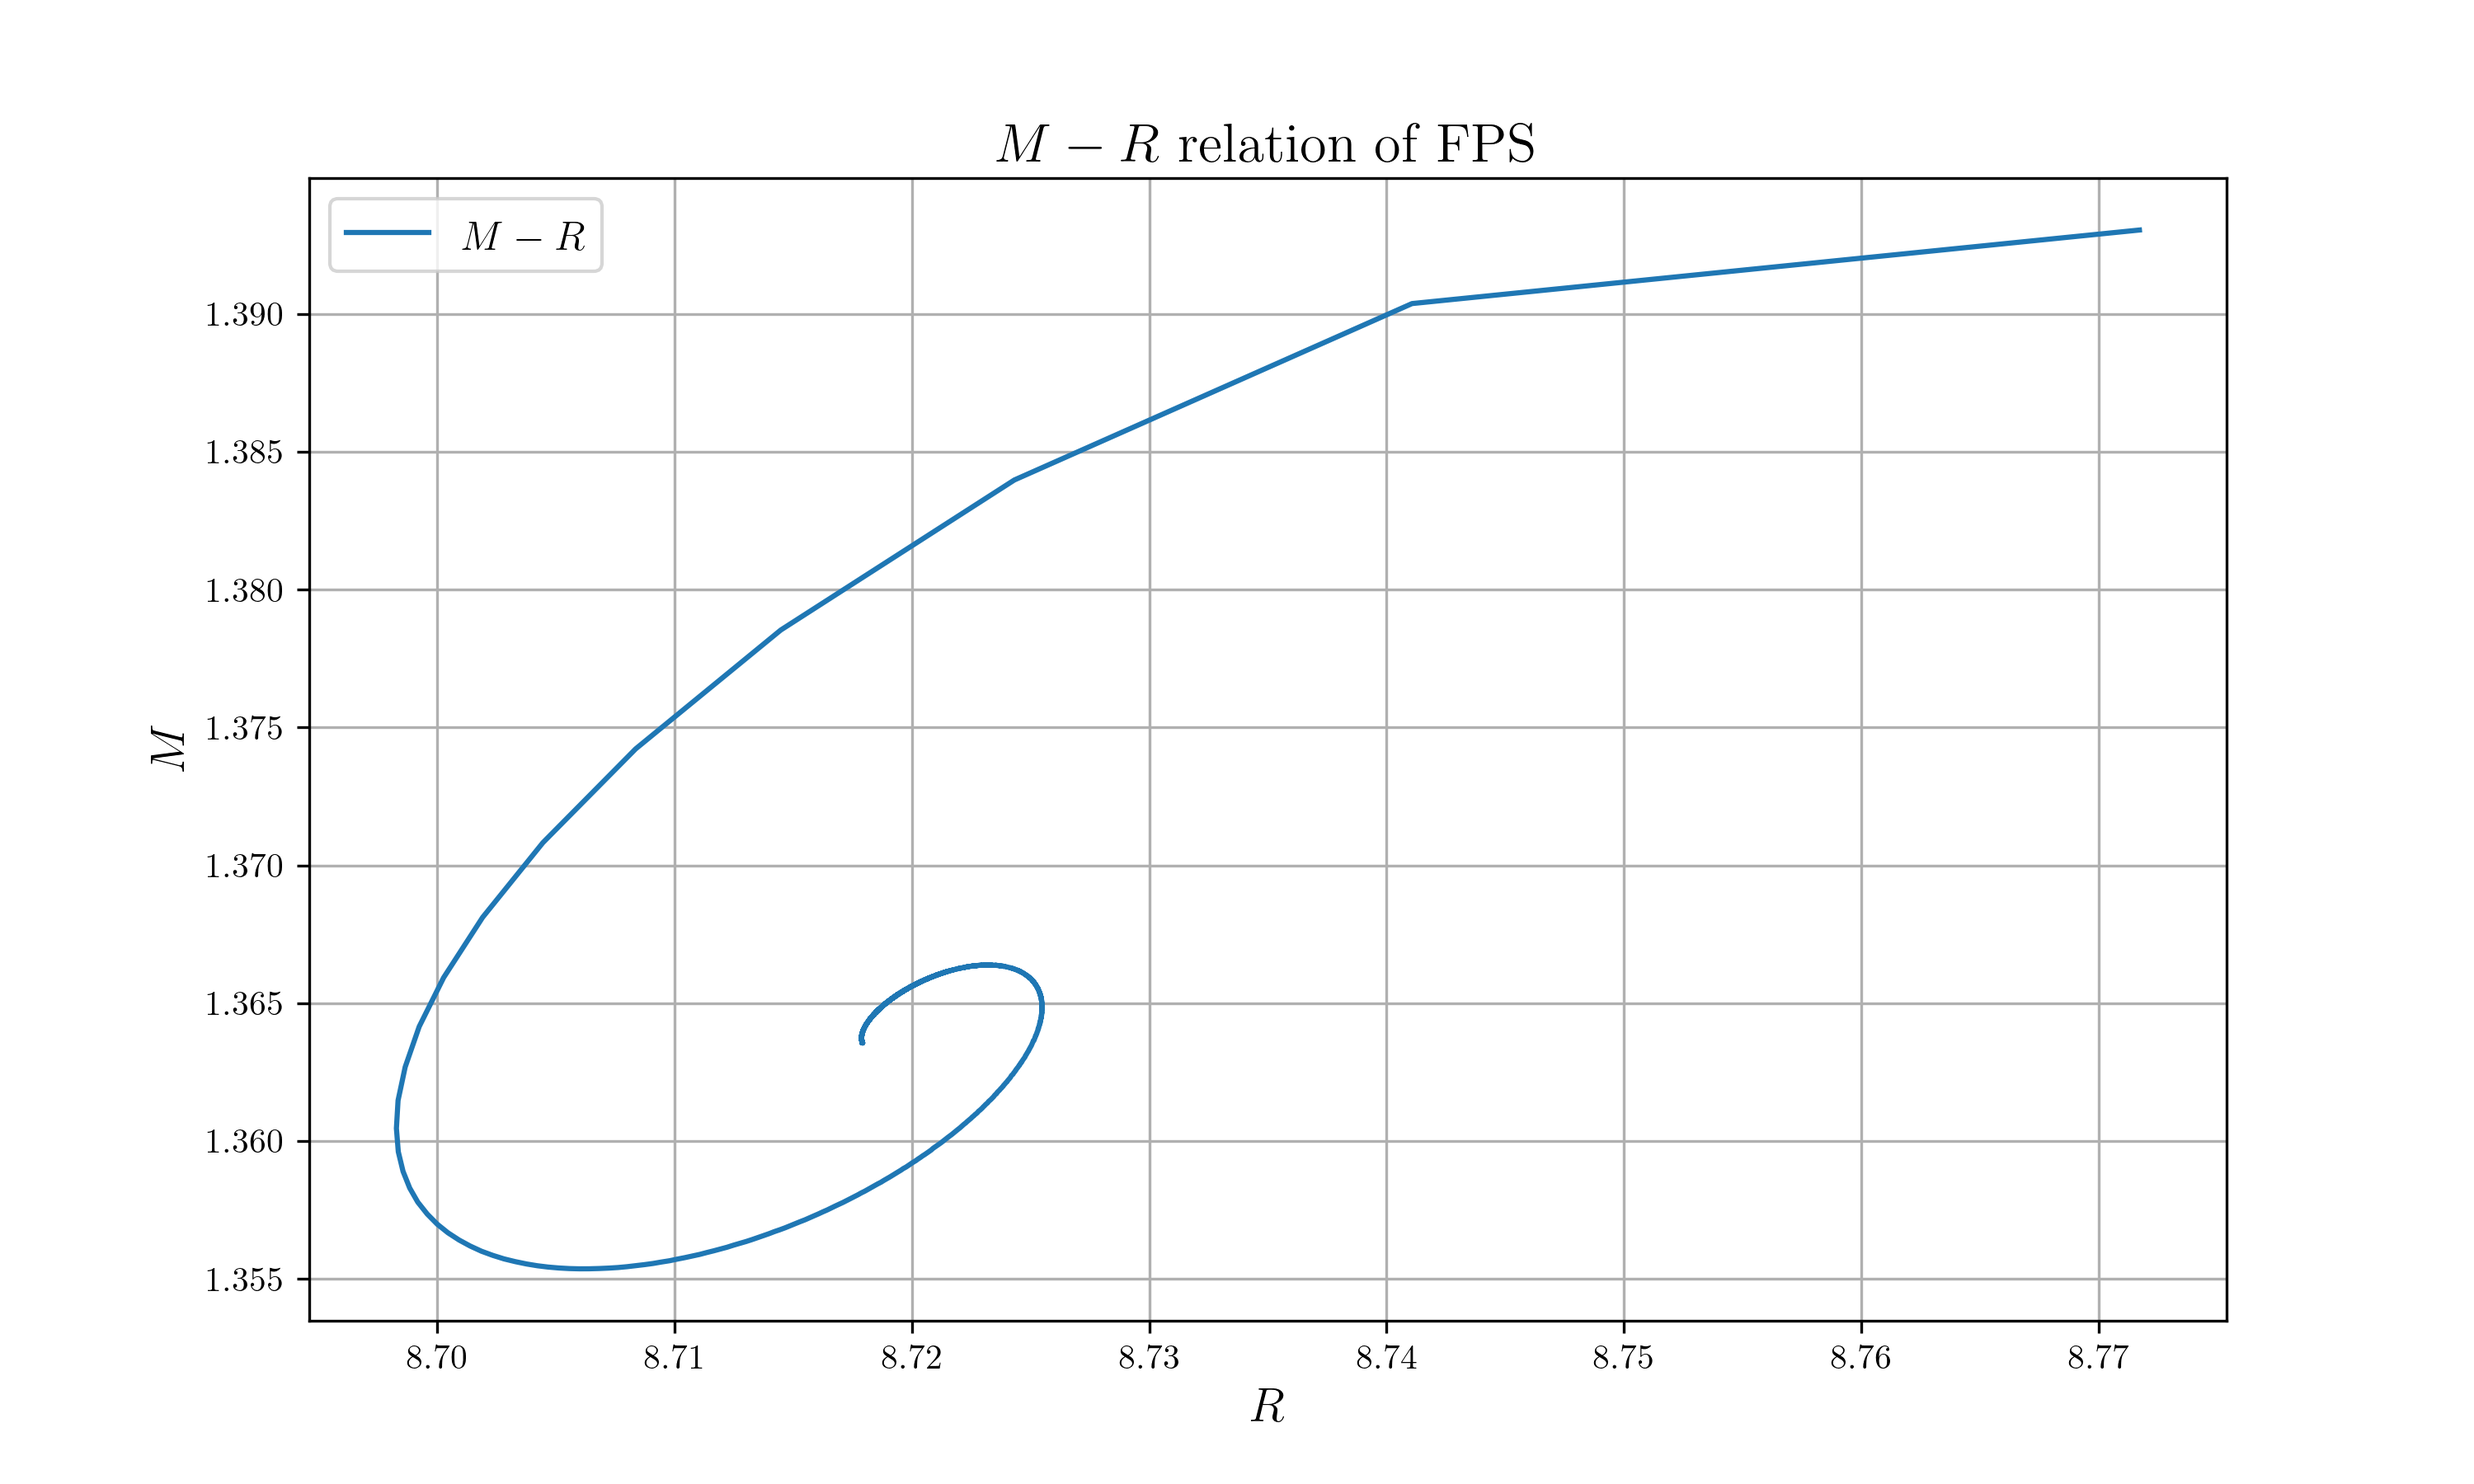
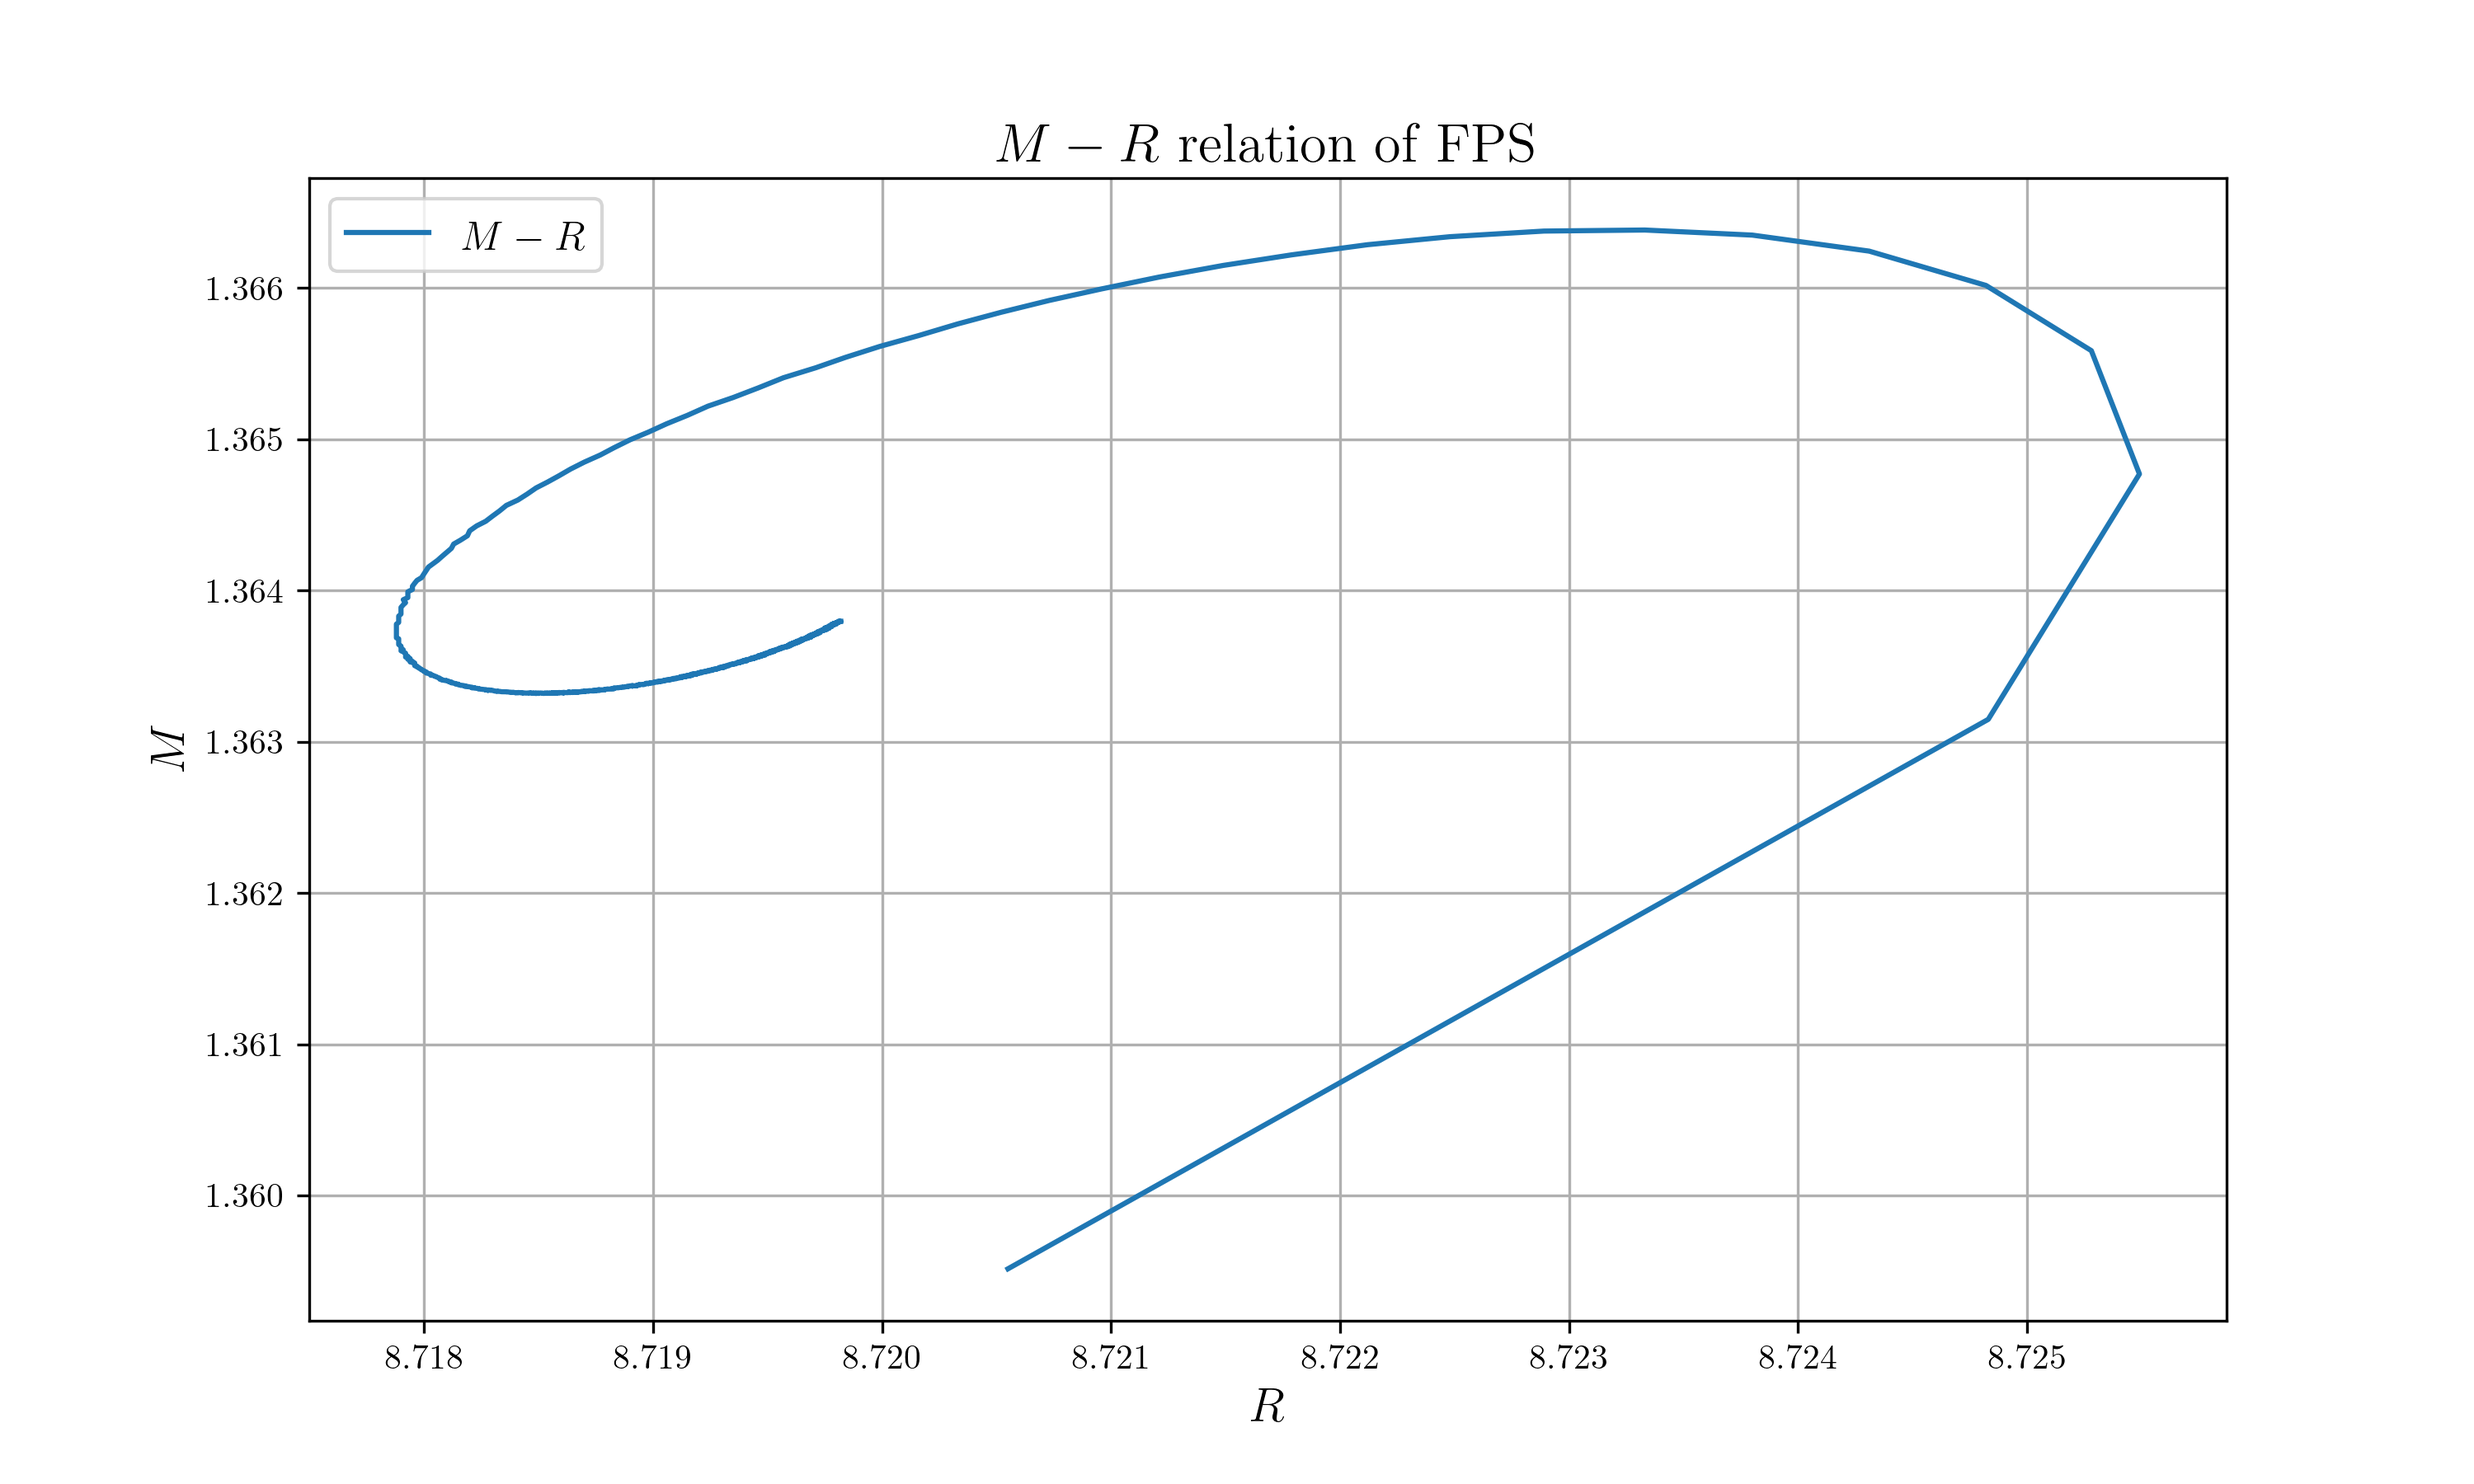
More 1000

diff --git a/src/bin/fps_mr.rs b/src/bin/fps_mr.rs
@@ -17,7 +17,7 @@ pub const RHO1: f64 = -5.55f64;
 pub const RHO2: f64 = -3.6f64;
 pub const RHO3: f64 = -2.4f64;
 
-pub const SIZE: usize = 10000usize;
+pub const SIZE: usize = 1000usize;
 
 #[allow(non_snake_case)]
 fn main() {
@@ -58,7 +58,7 @@ fn main() {
 
     let results = (1..SIZE+1).into_par_iter().map(|idx| {
         // Set Initial Conditions
-        let rho_c = convert(0.1057380000E+18 * (10f64 * idx as f64), Density, cgs_to_geom);
+        let rho_c = convert(0.1057380000E+18 * (1000f64 * idx as f64), Density, cgs_to_geom);
         let r_step = convert(10_000_00f64, Length, cgs_to_geom);
         let m_c = 0f64;
         let init_state = State::<f64>::new(0f64, vec![m_c, rho_c], vec![0f64; 2]);
